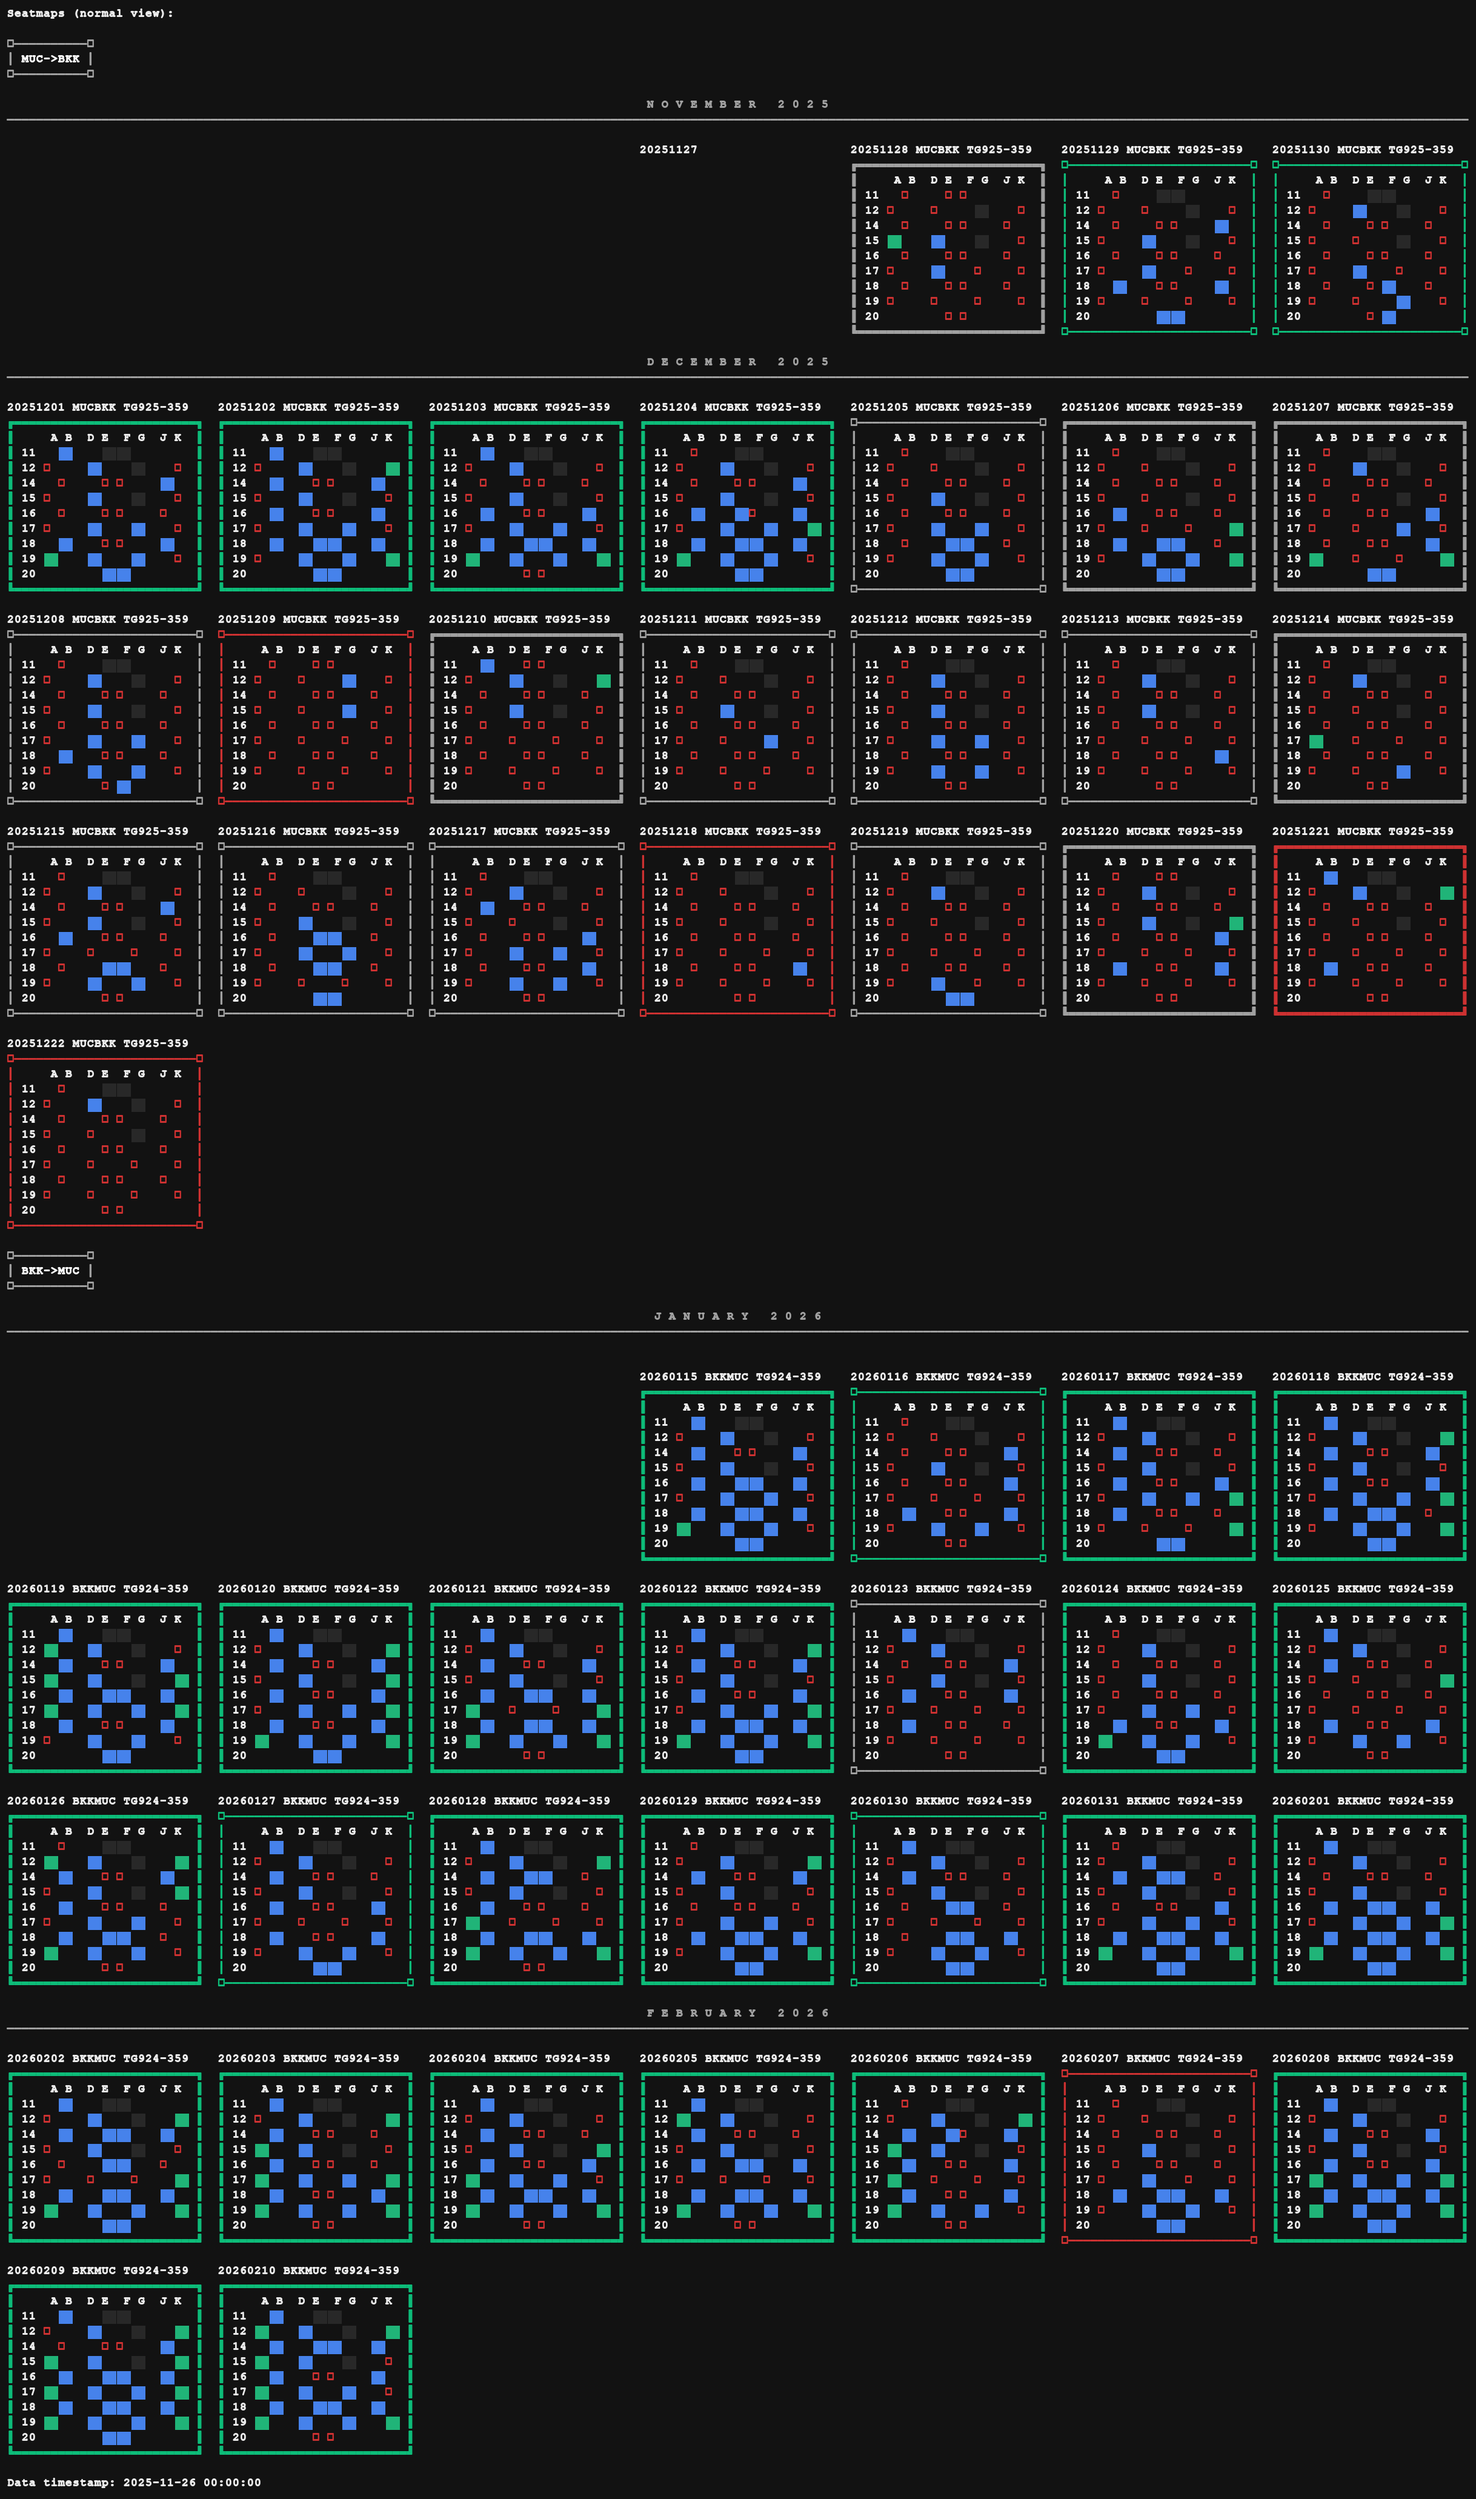
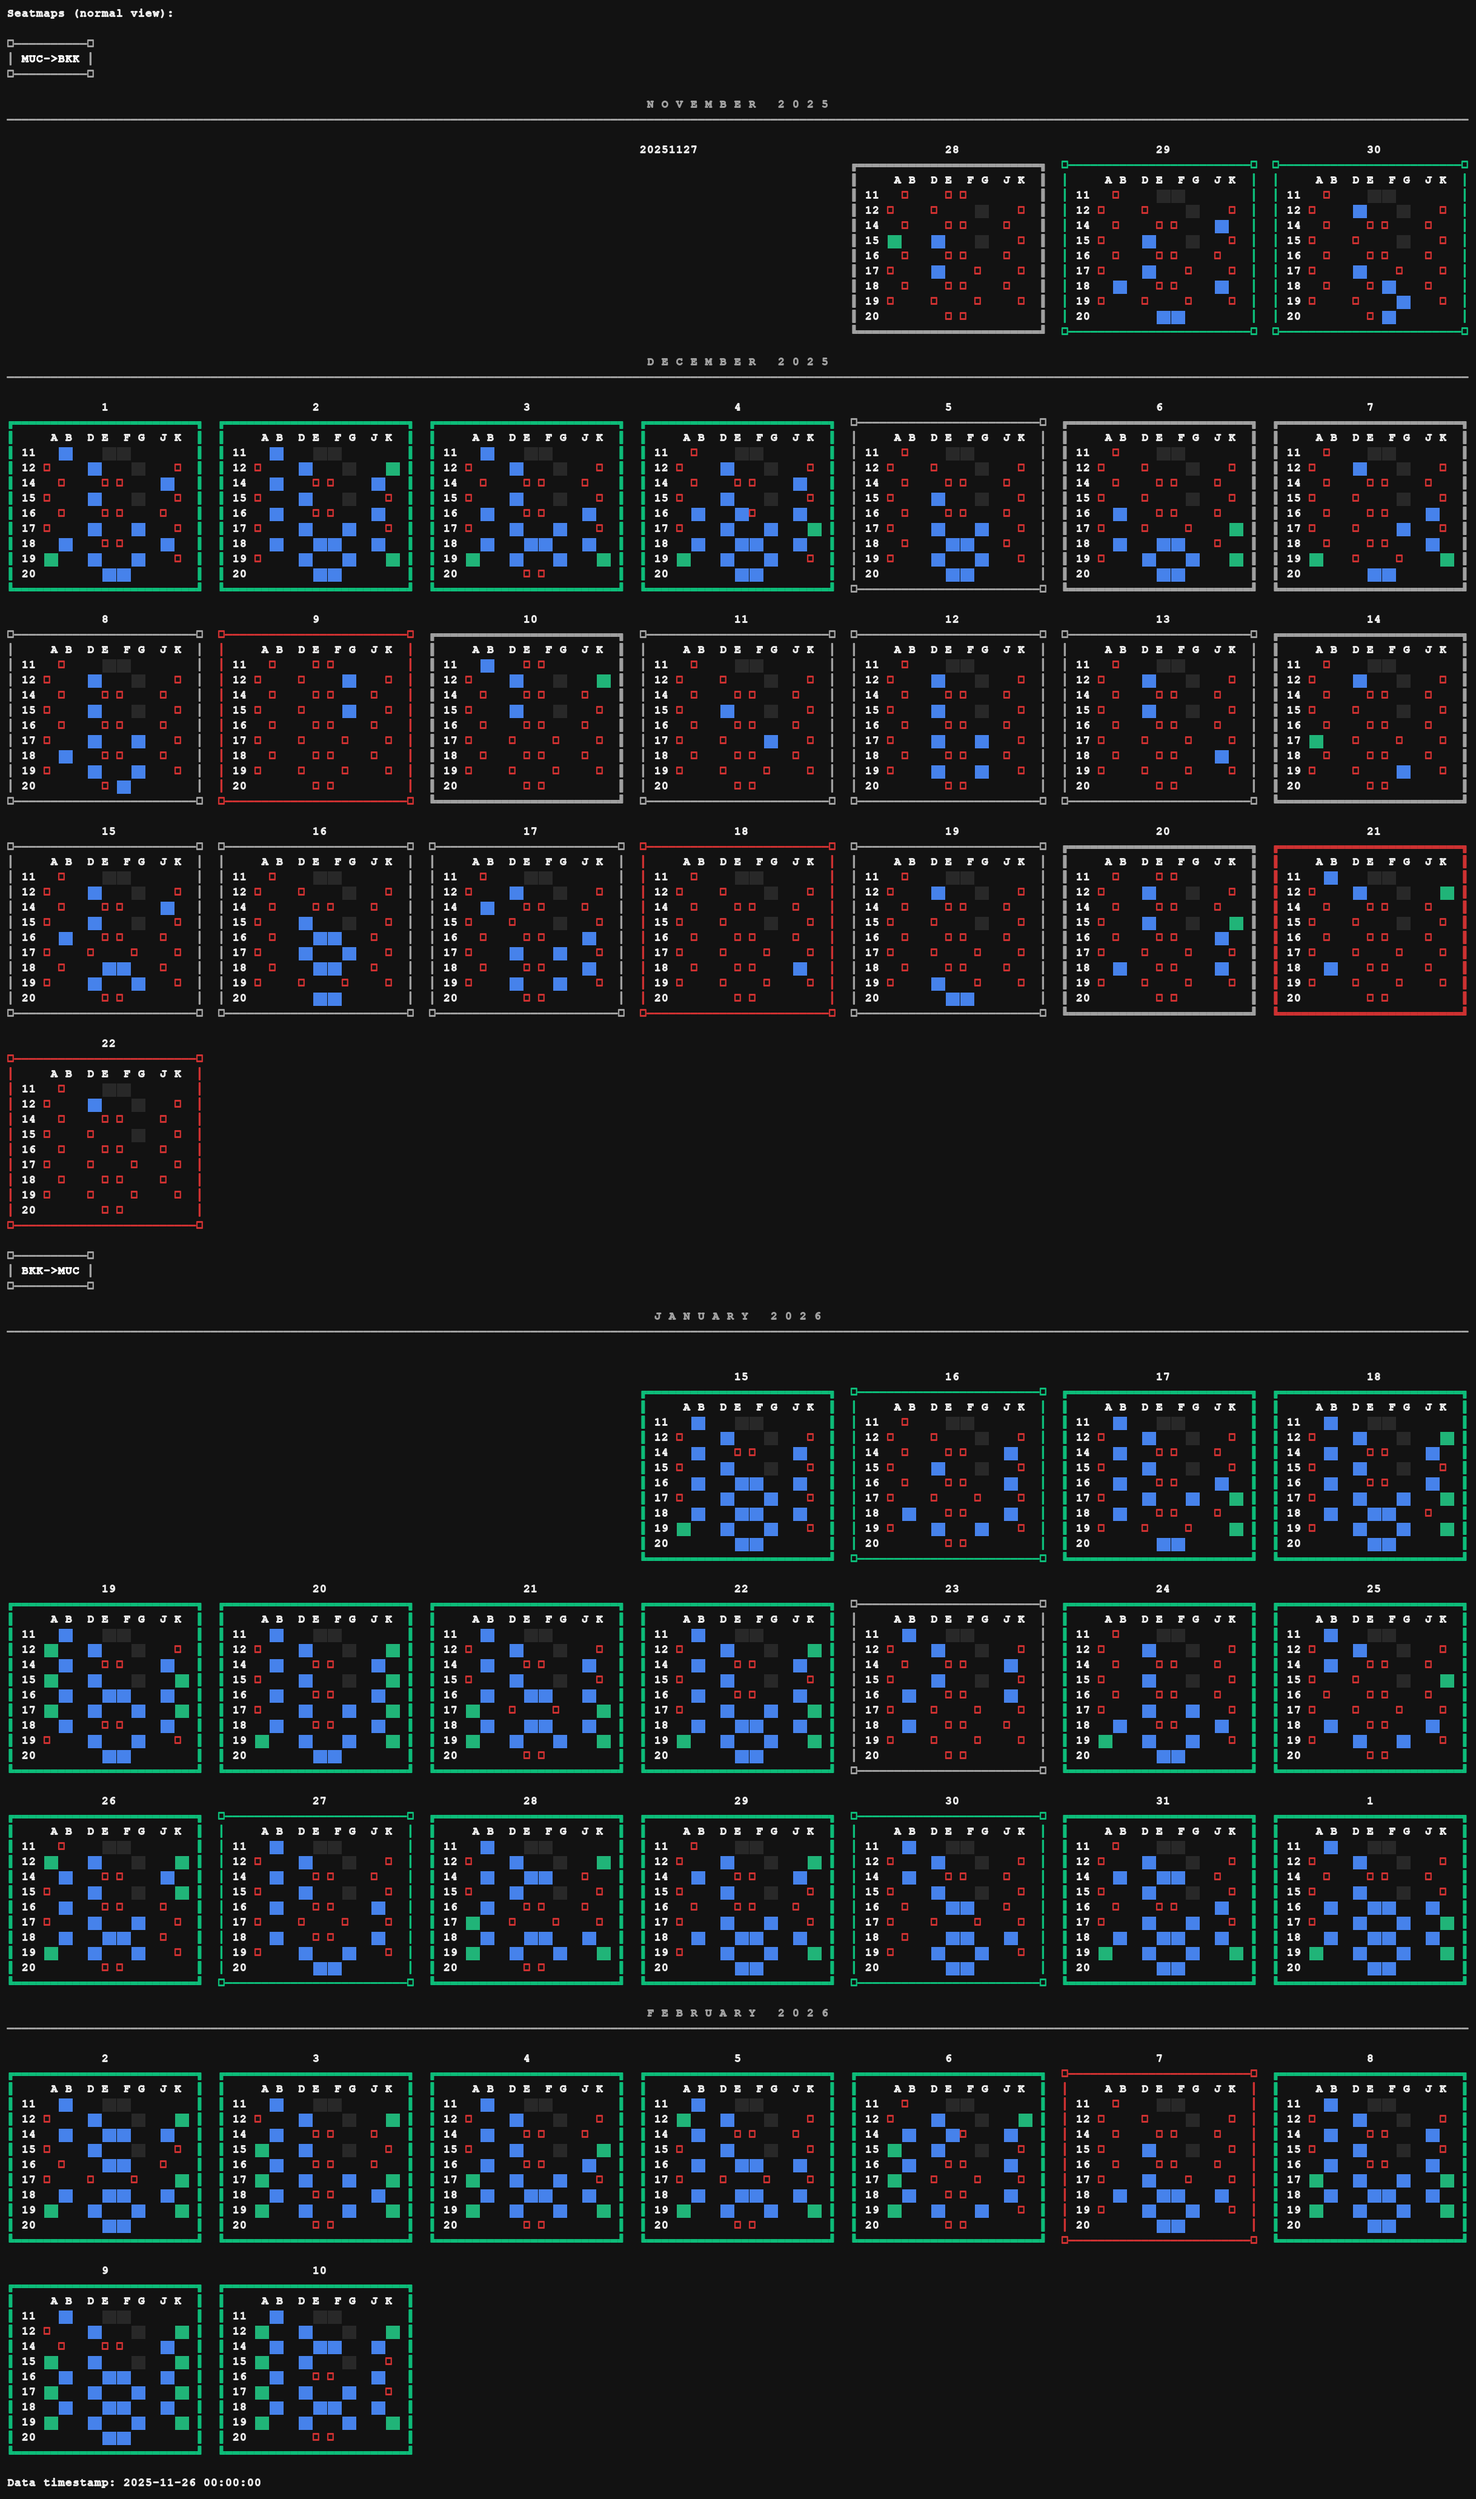
update

diff --git a/seatmap_display.py b/seatmap_display.py
@@ -53,13 +53,17 @@ class SeatMaps:
         style: str = 'ascii',
         thick_border: bool = False,
     ) -> str:
-        header = self._format_header(seatmap, style=style)
         render_fn = self._render_ascii_deck if style != 'compact' else self._render_compact_deck
-        output = [f"\n{header}"]
+        rendered_decks: list[str] = []
         for deck in seatmap.decks:
             rendered = render_fn(deck, highlight=highlight, thick_border=thick_border)
             if rendered:
-                output.append(rendered)
+                rendered_decks.append(rendered)
+
+        header_width = display_width(rendered_decks[0].splitlines()[0]) if rendered_decks else None
+        header = self._format_header(seatmap, style=style, width=header_width)
+        output = [f"\n{header}"]
+        output.extend(rendered_decks)
         return '\n'.join(output)
 
     def _render_ascii_deck(self, deck: dict, *, highlight: str | None = None, thick_border: bool = False) -> str:
@@ -199,36 +203,31 @@ class SeatMaps:
     def _has_aisle_between(previous_label: str | None, next_label: str | None) -> bool:
         return (previous_label, next_label) in {('B', 'D'), ('G', 'J')}
 
-    def _format_header(self, seatmap: SeatMap, *, style: str) -> str:
-        route = f"{seatmap.origin}{seatmap.destination}".strip()
-        flight = f"{seatmap.carrier}{seatmap.number}".strip()
+    def _format_header(self, seatmap: SeatMap, *, style: str, width: int | None = None) -> str:
+        day_label = self._format_day_of_month(seatmap.departure_date)
+        header = self._center_text(day_label, width)
         if style == 'compact':
-            date_label = self._format_date_no_year(seatmap.departure_date)
-            primary_line, layout = self._build_compact_header_primary_line(date_label, route, flight)
-            lines = [primary_line]
-            if not SUPPRESS_COMPACT_SECOND_HEADER:
-                secondary_line = self._build_compact_header_meta_line(
-                    weekday_label=self._weekday_label(seatmap.departure_date),
-                    price_label=seatmap.formatted_total_price(rounded=True) or "N/A",
-                    aircraft_label=seatmap.aircraft_code or '',
-                    layout=layout,
-                )
-                if secondary_line:
-                    lines.append(secondary_line)
-            colored_lines = [apply_heatmap_header_color(line) for line in lines]
-            return '\n'.join(colored_lines)
-        header = f"{seatmap.departure_date} {route} {flight}-{seatmap.aircraft_code} "
+            return apply_heatmap_header_color(header)
         return header
 
     @staticmethod
-    def _format_date_no_year(date_str: str | None) -> str:
+    def _format_day_of_month(date_str: str | None) -> str:
         if not date_str:
             return ''
         try:
             date_value = datetime.strptime(date_str, '%Y%m%d')
-            return date_value.strftime('%m%d')
+            return str(date_value.day)
         except ValueError:
-            return date_str
+            fallback = date_str[-2:]
+            return fallback.lstrip('0') or fallback or date_str
+
+    @staticmethod
+    def _center_text(text: str, width: int | None) -> str:
+        if not width or width <= 0:
+            return text
+        if display_width(text) >= width:
+            return text
+        return text.center(width)
 
     @staticmethod
     def _weekday_label(date_str: str | None) -> str:

diff --git a/README.md b/README.md
@@ -4,7 +4,7 @@ CLI utility for browsing Amadeus seat-map availability across a set of long-haul
 
 ## Example output
 
-![Example output: weekly grid of ASCII seat maps](docs/seatmaps_compact.png)
+![Example output: weekly grid of ASCII seat maps](docs/seatmaps.png)
 _Figure: Example terminal output showing the weekly ASCII seat maps (Mon–Sun)._
 
 ![Example output: window-seat ledger](docs/window_seats.png)
@@ -13,8 +13,8 @@ _Figure: Example terminal output showing the date-sorted ledger of available win
 ![Example output: price heatmaps](docs/price_heatmaps.png)
 _Figure: Example terminal output showing the price heatmaps for all flight combinations - one for windows seats and one for all._
 
-![Example output: weekly grid of ASCII seat maps - alternative layout](docs/seatmaps.png)
-_Figure: Example terminal output showing the weekly ASCII seat maps (Mon–Sun) in an alternative layout._
+<!-- ![Example output: weekly grid of ASCII seat maps - compact](docs/seatmaps_compact.png)
+_Figure: Example terminal output showing the weekly ASCII seat maps (Mon–Sun) - compact._ -->
 
 ## Highlights
 - Builds ASCII seat maps with wide-character awareness so layouts stay aligned even when using emoji markers.
